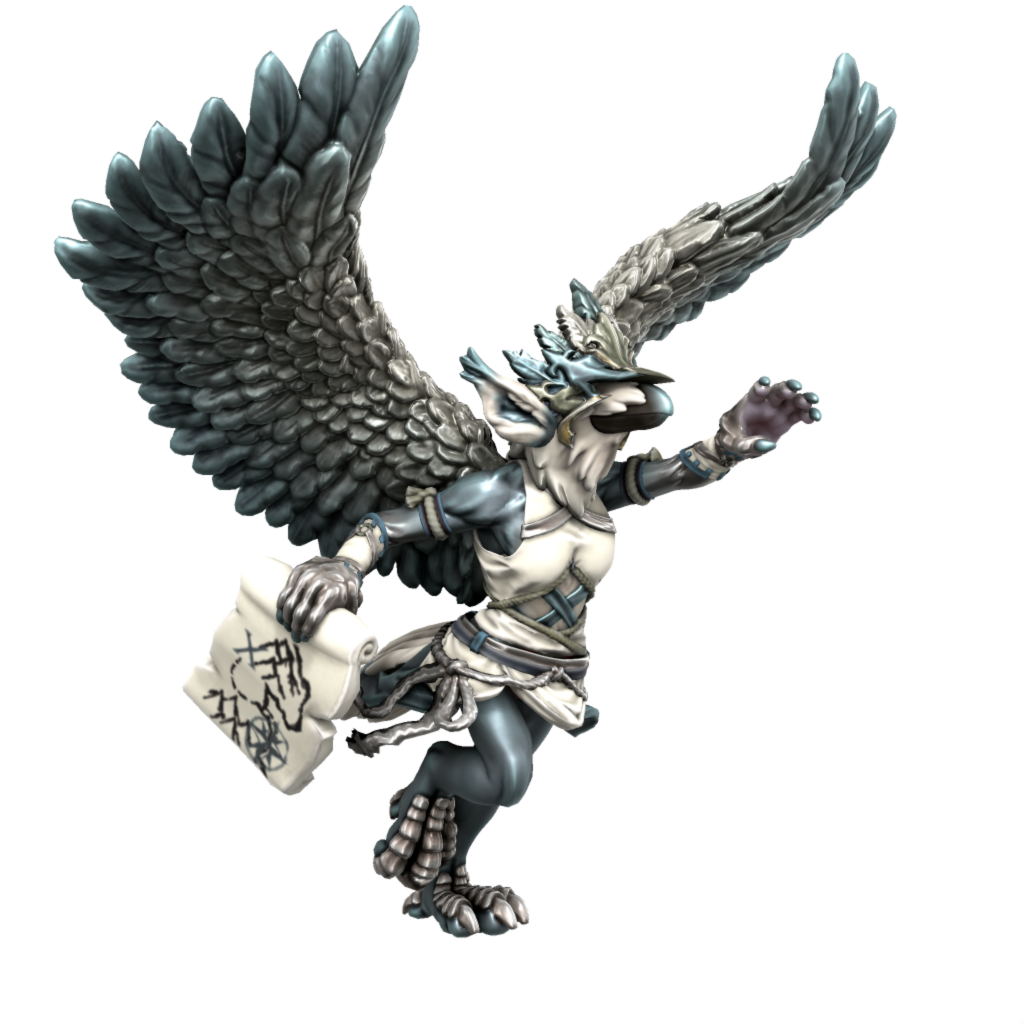
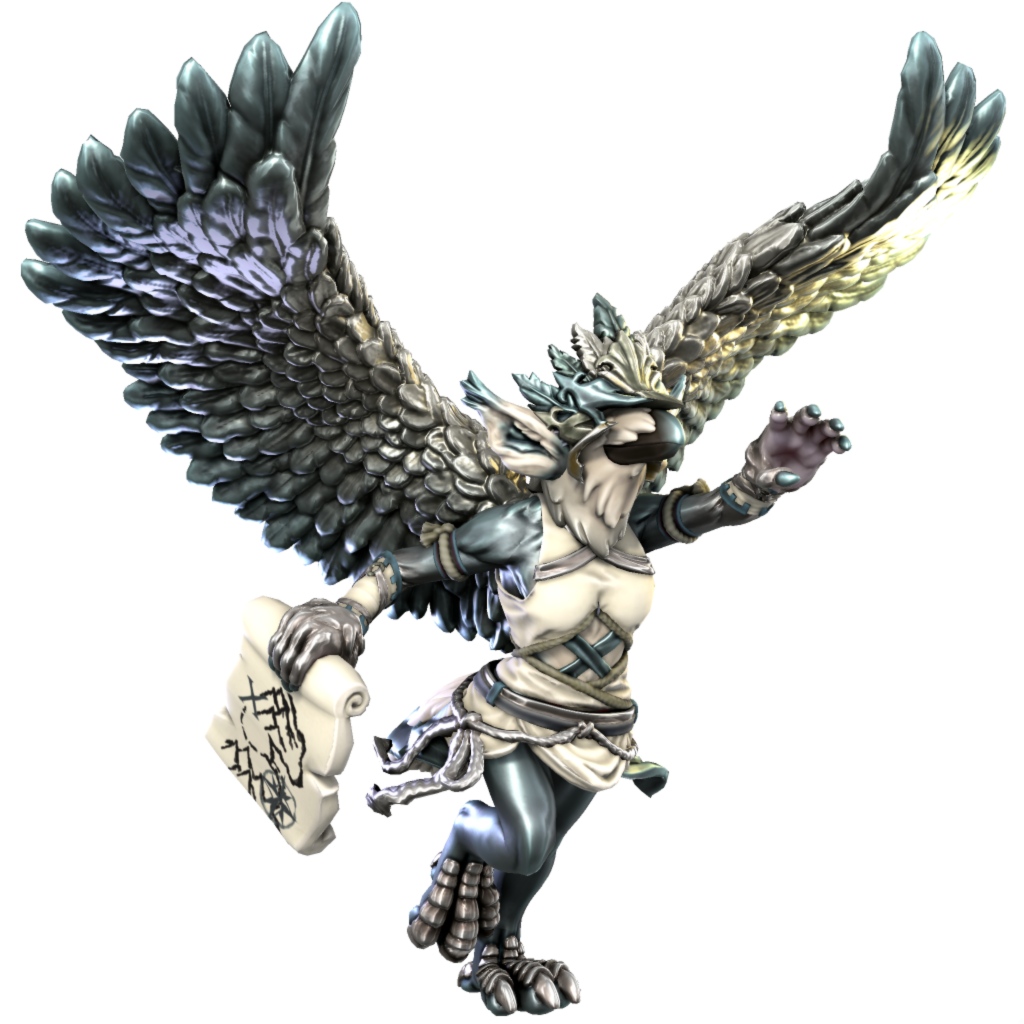
Better heroforge images for the seraphim

diff --git a/source/cosmology/daemons/seraphim/index.md b/source/cosmology/daemons/seraphim/index.md
@@ -1,6 +1,4 @@
-# Serafim
+# Seraphim
 /sɛrəfɪm/
-
-
 
 Daemons born of more pleasant, positive and altruistic thoughts refer to themselves as "seraphim" (singular: seraph). Some mortals call them "angels".
